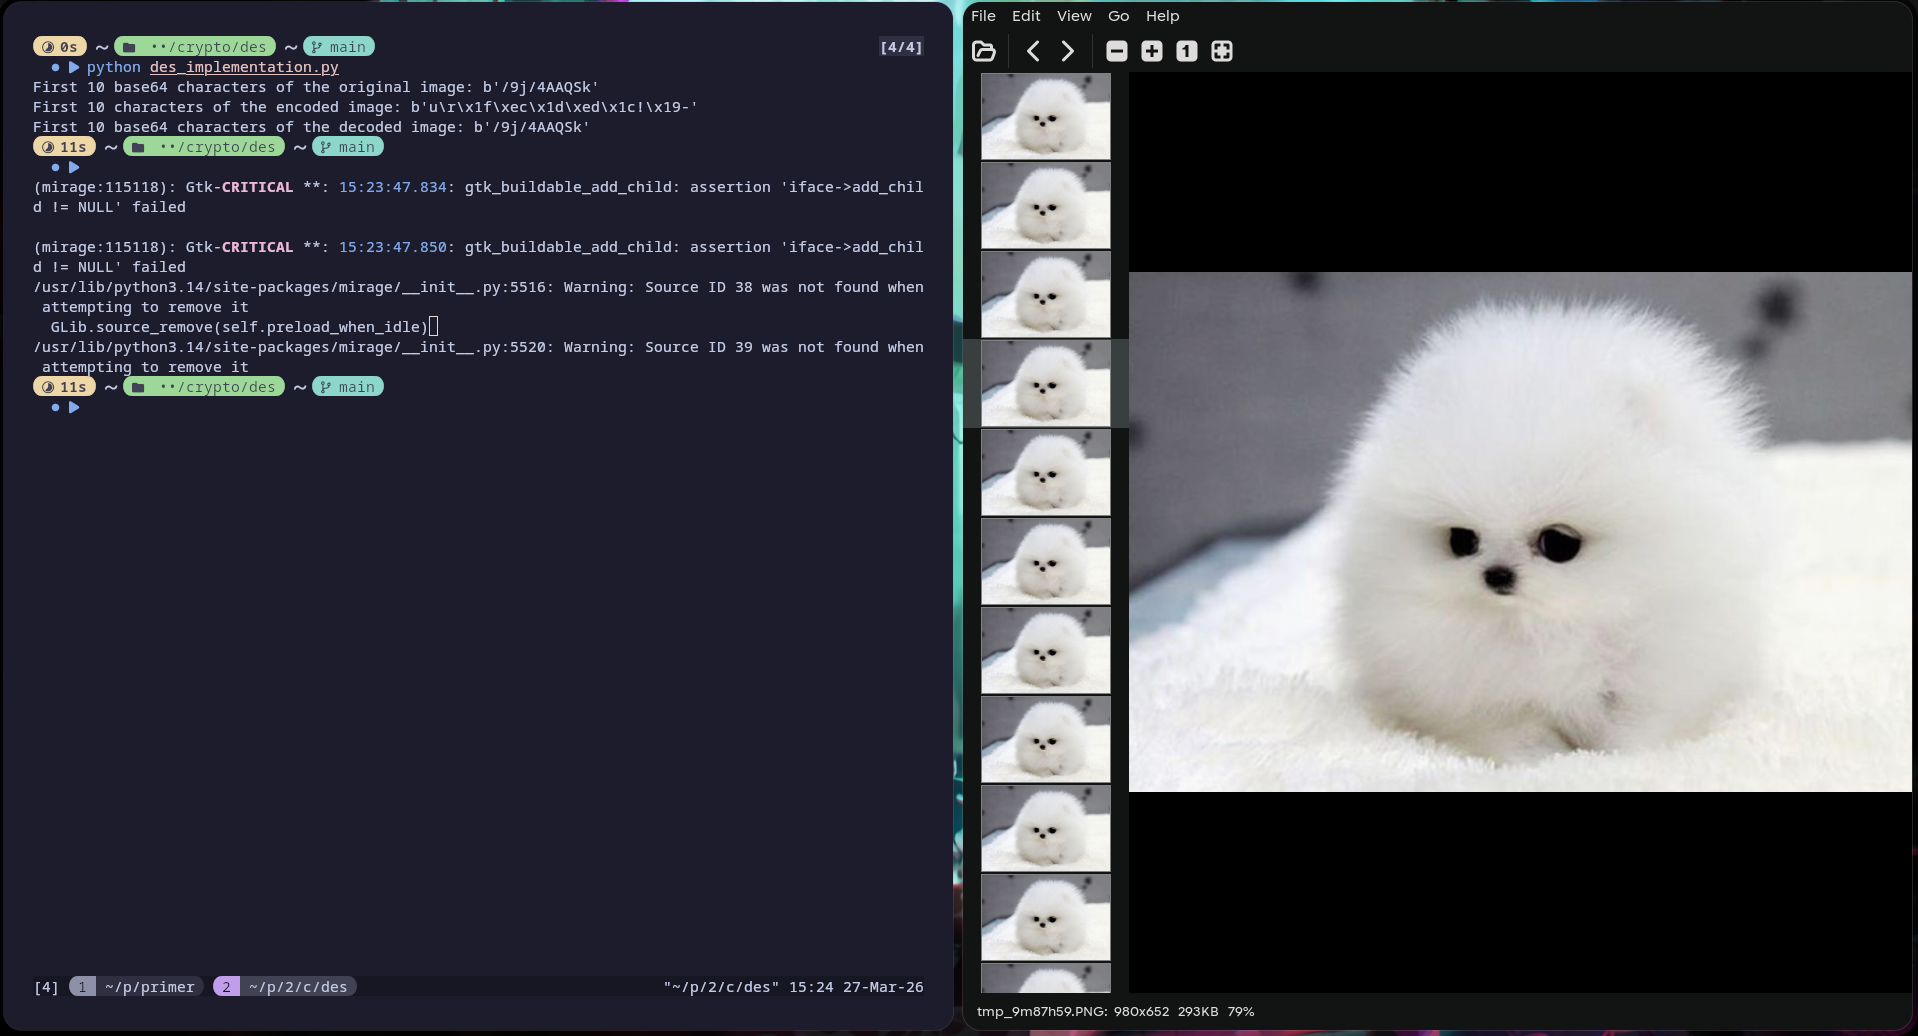
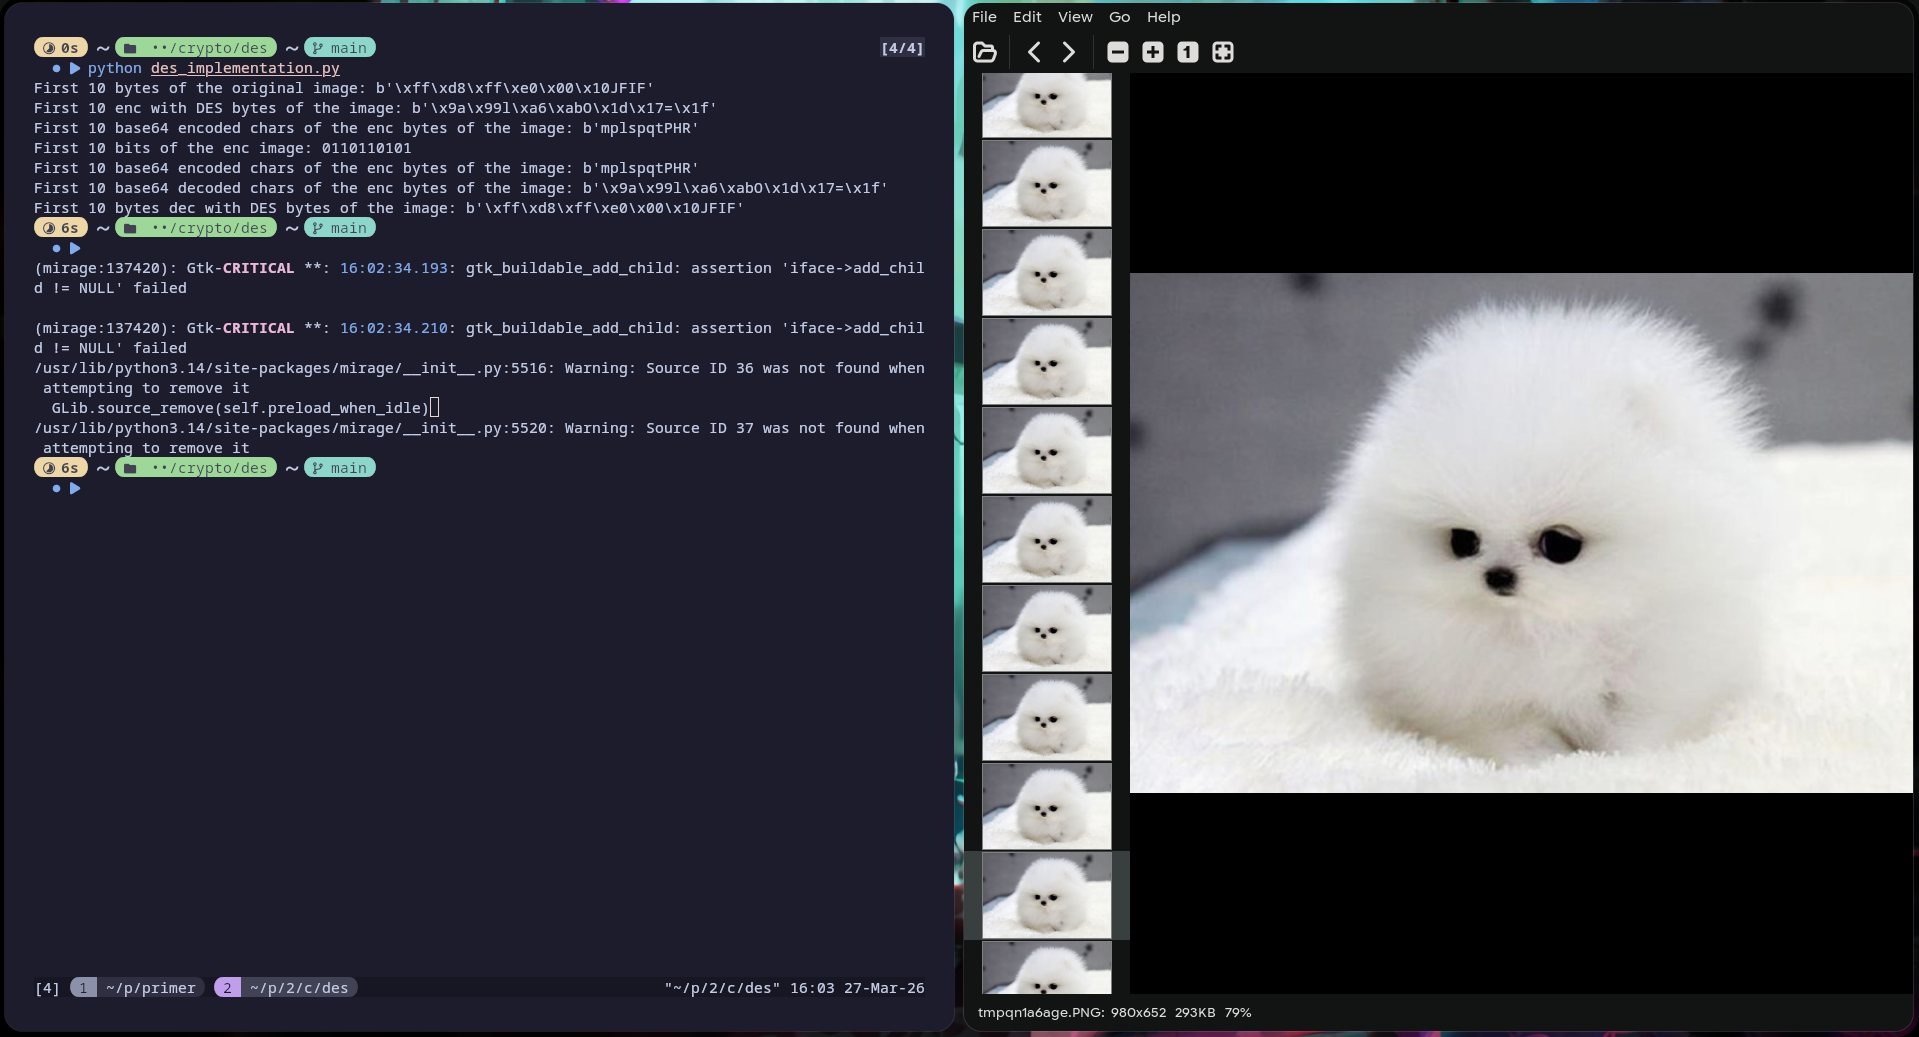
Fix: order for DES exercise was fixed

diff --git a/des/des_implementation.py b/des/des_implementation.py
@@ -4,21 +4,16 @@ from PIL import Image
 import io
 
 
-def base64_img_encoding(path):
+def img_to_bytes(path):
     with open(path, "rb") as image_file:
         image_bytes = image_file.read()
-        encoded = base64.b64encode(image_bytes)
-    return encoded
-
-
-def base64_img_decoding(encoded_string):
-    decoded_string = base64.b64decode(encoded_string)
-    return decoded_string
+    return image_bytes
 
 
 def main():
-    base64_enc_image = base64_img_encoding("puppy.jpg")
-    print(f"First 10 base64 characters of the original image: {base64_enc_image[:10]}")
+    # IMAGE TO BYTES
+    bytes_img = img_to_bytes("puppy.jpg")
+    print(f"First 10 bytes of the original image: {bytes_img[:10]}")
 
     des = pyDes.des(
         b"password",
@@ -28,13 +23,40 @@ def main():
         padmode=pyDes.PAD_PKCS5,
     )
 
-    enc_image = des.encrypt(base64_enc_image)
-    print(f"First 10 characters of the encoded image: {enc_image[:10]}")
-    dec_image = des.decrypt(enc_image)
-    print(f"First 10 base64 characters of the decoded image: {dec_image[:10]}")
+    # IMAGE BYTES TO ENCRYPTED BYTES
+    enc_bytes_img = des.encrypt(bytes_img)
+    print(f"First 10 enc with DES bytes of the image: {enc_bytes_img[:10]}")
 
-    raw_image_bytes = base64_img_decoding(dec_image)
-    image = Image.open(io.BytesIO(raw_image_bytes))
+    # ENCRYPTED BYTES TO BASE64
+    base64_enc_bytes_img = base64.b64encode(enc_bytes_img)
+    print(
+        f"First 10 base64 encoded chars of the enc bytes of the image: {base64_enc_bytes_img[:10]}"
+    )
+
+    # BASE64 TO BITS
+    bits_enc_img = "".join(format(byte, "08b") for byte in base64_enc_bytes_img)
+    print(f"First 10 bits of the enc image: {bits_enc_img[:10]}")
+
+    # BITS TO BASE64
+    base64_enc_bytes_img = bytes(
+        int(bits_enc_img[i : i + 8], 2) for i in range(0, len(bits_enc_img), 8)
+    )
+    print(
+        f"First 10 base64 encoded chars of the enc bytes of the image: {base64_enc_bytes_img[:10]}"
+    )
+
+    # BASE64 TO BYTES
+    enc_bytes_img = base64.b64decode(base64_enc_bytes_img)
+    print(
+        f"First 10 base64 decoded chars of the enc bytes of the image: {enc_bytes_img[:10]}"
+    )
+
+    # ENC BYTES TO DEC BYTES
+    dec_bytes_img = des.decrypt(enc_bytes_img)
+    print(f"First 10 bytes dec with DES bytes of the image: {dec_bytes_img[:10]}")
+
+    # OPEN IMAGE
+    image = Image.open(io.BytesIO(dec_bytes_img))
     image.show()
 
 
